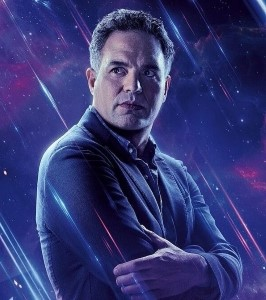
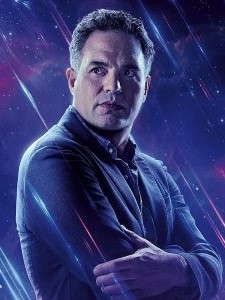
adding all img and js

diff --git a/Javascript/hulkMod.js b/Javascript/hulkMod.js
@@ -3,6 +3,10 @@ body = document.querySelector('body');
 hulkForm = document.querySelector('#hulkForm');
 textHuman = document.querySelectorAll('.textHuman');
 textHulk = document.querySelectorAll('.textHulk');
+bannerPicture = document.querySelector('.bannerPicture');
+hulkPicture = document.querySelector('.hulkPicture');
+descriptionBanner = document.querySelector('.descriptionBanner');
+descriptionHulk = document.querySelector('.descriptionHulk');
 
 
 hulkButton.addEventListener('click', function (e) {
@@ -15,6 +19,10 @@ hulkButton.addEventListener('click', function (e) {
             textHuman[i].style.display = "none";
             textHulk[i].style.display = "block";
         };
+        hulkPicture.style.opacity = "1";
+        bannerPicture.style.opacity ="0";
+        descriptionBanner.style.display = "none";
+        descriptionHulk.style.display = "block";
     } else {
         hulkButton.textContent = "En savoir plus";
         hulkForm.style.display = "none";
@@ -22,7 +30,11 @@ hulkButton.addEventListener('click', function (e) {
             textHuman[i].style.display = "block";
             textHulk[i].style.display = "none";
         };
+        hulkPicture.style.opacity = "0";
+        bannerPicture.style.opacity ="1";
+        descriptionBanner.style.display = "block";
+        descriptionHulk.style.display = "none";
+
     }
-    //hulkForm.classList.toggle('display');
 
 });

diff --git a/scss/_profile.scss b/scss/_profile.scss
@@ -1,25 +1,43 @@
-
-
-.image {
-  width: 100%;
+.containerprofil {
+  display:flex;
+  justify-content: space-around;
 }
 .avatar {
-width: 50%;
+  flex: 1;
+  position: relative;
 }
 
-
-.description {
-    display: list-item;
-    text-align: left;
-    color: $fontColor;
-    font-size: 1.2em;
+.parcours {
+  flex: 1;
+  text-align: left;
+  color: $fontColor;
+  font-size: 1.2em;
 }
-
-
+.hulkPicture {
+  position: absolute;
+  top: 0;
+  bottom: 0;
+  left: 0;
+  right: 0;
+  width: 100%;
+  height: 100%;
+  opacity: 0;
+}
+.banner {
+  width: auto;
+}
+.hulk {
+  height: auto;
+}
+.descriptionHulk {
+  display:none;
+}
 
 @media screen and (max-width: 767px) {
-   
     .carousel {
       display: none;
+    }
+    .description {
+      text-align: center;
     }
   }

diff --git a/form.php b/form.php
@@ -39,33 +39,33 @@
 
 
     <fieldset class="hulkForm" id="hulkForm">
-       <legend>Votre mission (s'affiche en thème HULK)</legend>
+       <legend>MISSION</legend>
  
         <div class="form-input">
-            <label>Vous voudriez ?</label>
+            <label>QUE FAIRE ?</label>
             <div class="radio-container">
                 <div class="custom-radio">
                     <input type="radio" name="souhait" value="track" id="track" />
-                    <label class="radio-label" for="track"><strong>Retrouver et traquer</strong> un ennemi</label>
+                    <label class="radio-label" for="track"><strong>ATTRAPER</strong> un ennemi</label>
                 </div>
                 <div class="custom-radio">
                     <input type="radio" name="souhait" value="fight" id="fight" />
-                    <label class="radio-label" for="fight"><strong>Casser la g#@ul€</strong> à un ennemi</label>
+                    <label class="radio-label" for="fight"><strong>SMASH</strong> un ennemi</label>
                 </div>
                 <div class="custom-radio">
                     <input type="radio" name="souhait" value="remove" id="remove" />
-                    <label class="radio-label" for="remove"><strong>Supprimer définitivement </strong> un ennemi</label>
+                    <label class="radio-label" for="remove"><strong>KILL</strong> un ennemi</label>
                 </div>
                 <div class="custom-radio">
                     <input type="radio" name="souhait" value="autre" id="autre" />
-                    <label class="radio-label" for="autre">Autre ?!</label>
+                    <label class="radio-label" for="autre">T'EN VEUX ENCORE ?!</label>
                 </div>
             </div>
         </div>
  
         <div class="form-input">
            <label for="precisions"></label>
-           <textarea class="custom-input" name="precisions" id="precisions" cols="40" rows="4" placeholder='Si "Autre", veuillez préciser :'></textarea>
+           <textarea class="custom-input" name="precisions" id="precisions" cols="40" rows="4" placeholder='QUEL EST LA MISSION ?'></textarea>
         </div>
    </fieldset>
 

diff --git a/profile.php b/profile.php
@@ -3,22 +3,29 @@
         <div class="carousel" id="carousel">
             <img class="image" src="public\img\carousel.jpg" alt="Carroussel Dr Banner">
         </div>
-        <div class="parcours" id="parcours">
-            <h1>Qui suis-je ? </h1>
-            <p class="description">
-            Dr Bruce Banner </br> 33ans </br> 180cm </br> 80kg </br> blblblbl
-            </p>
-        </div>
-        <div>
-            <picture class="avatar" id="avatar">
-                <source media="(max-width: 767px)" srcset="public/img/Bruce_Banner_small.jpg">
-                <img src="public/img/Bruce_Banner_medium.jpg" alt="Image de Bruce Banner">
-            </picture>
+        <h1>Qui suis-je ? </h1>
+        <div class="containerprofil" id="containerprofil">
+            <div class="avatar" id="avatar">
+                <picture class="bannerPicture">
+                    <source media="(max-width: 767px)" srcset="public/img/Bruce_Banner_medium.jpg">
+                    <img class="Banner" src="public/img/banner.jpg" alt="Image de Bruce Banner" width="100%">
+                </picture>
+                <picture class="hulkPicture">
+                    <source media="(max-width: 767px)" srcset="public/img/hulkmedium.jpg">
+                    <img class="hulk" src="public/img/hulkretuch.jpg" alt="Image de Bruce Banner" width="100%">
+                </picture>
+            </div>
+            <div class="parcours" id="parcours">
+                <p class="descriptionBanner">
+                    Dr Bruce Banner </br> 33ans </br> 180cm </br> 80kg </br> blblblbl
+                </p>
+                <p class="descriptionHulk">
+                    HULK </br> 33ans </br> 1000 </br> 1000kg </br> blblblbl
+                </p>
+            </div>
         </div>
     </section>
     <div class="contactBtn">
         <button>Contactez-moi</button>
     </div>
 </main>
-
-
